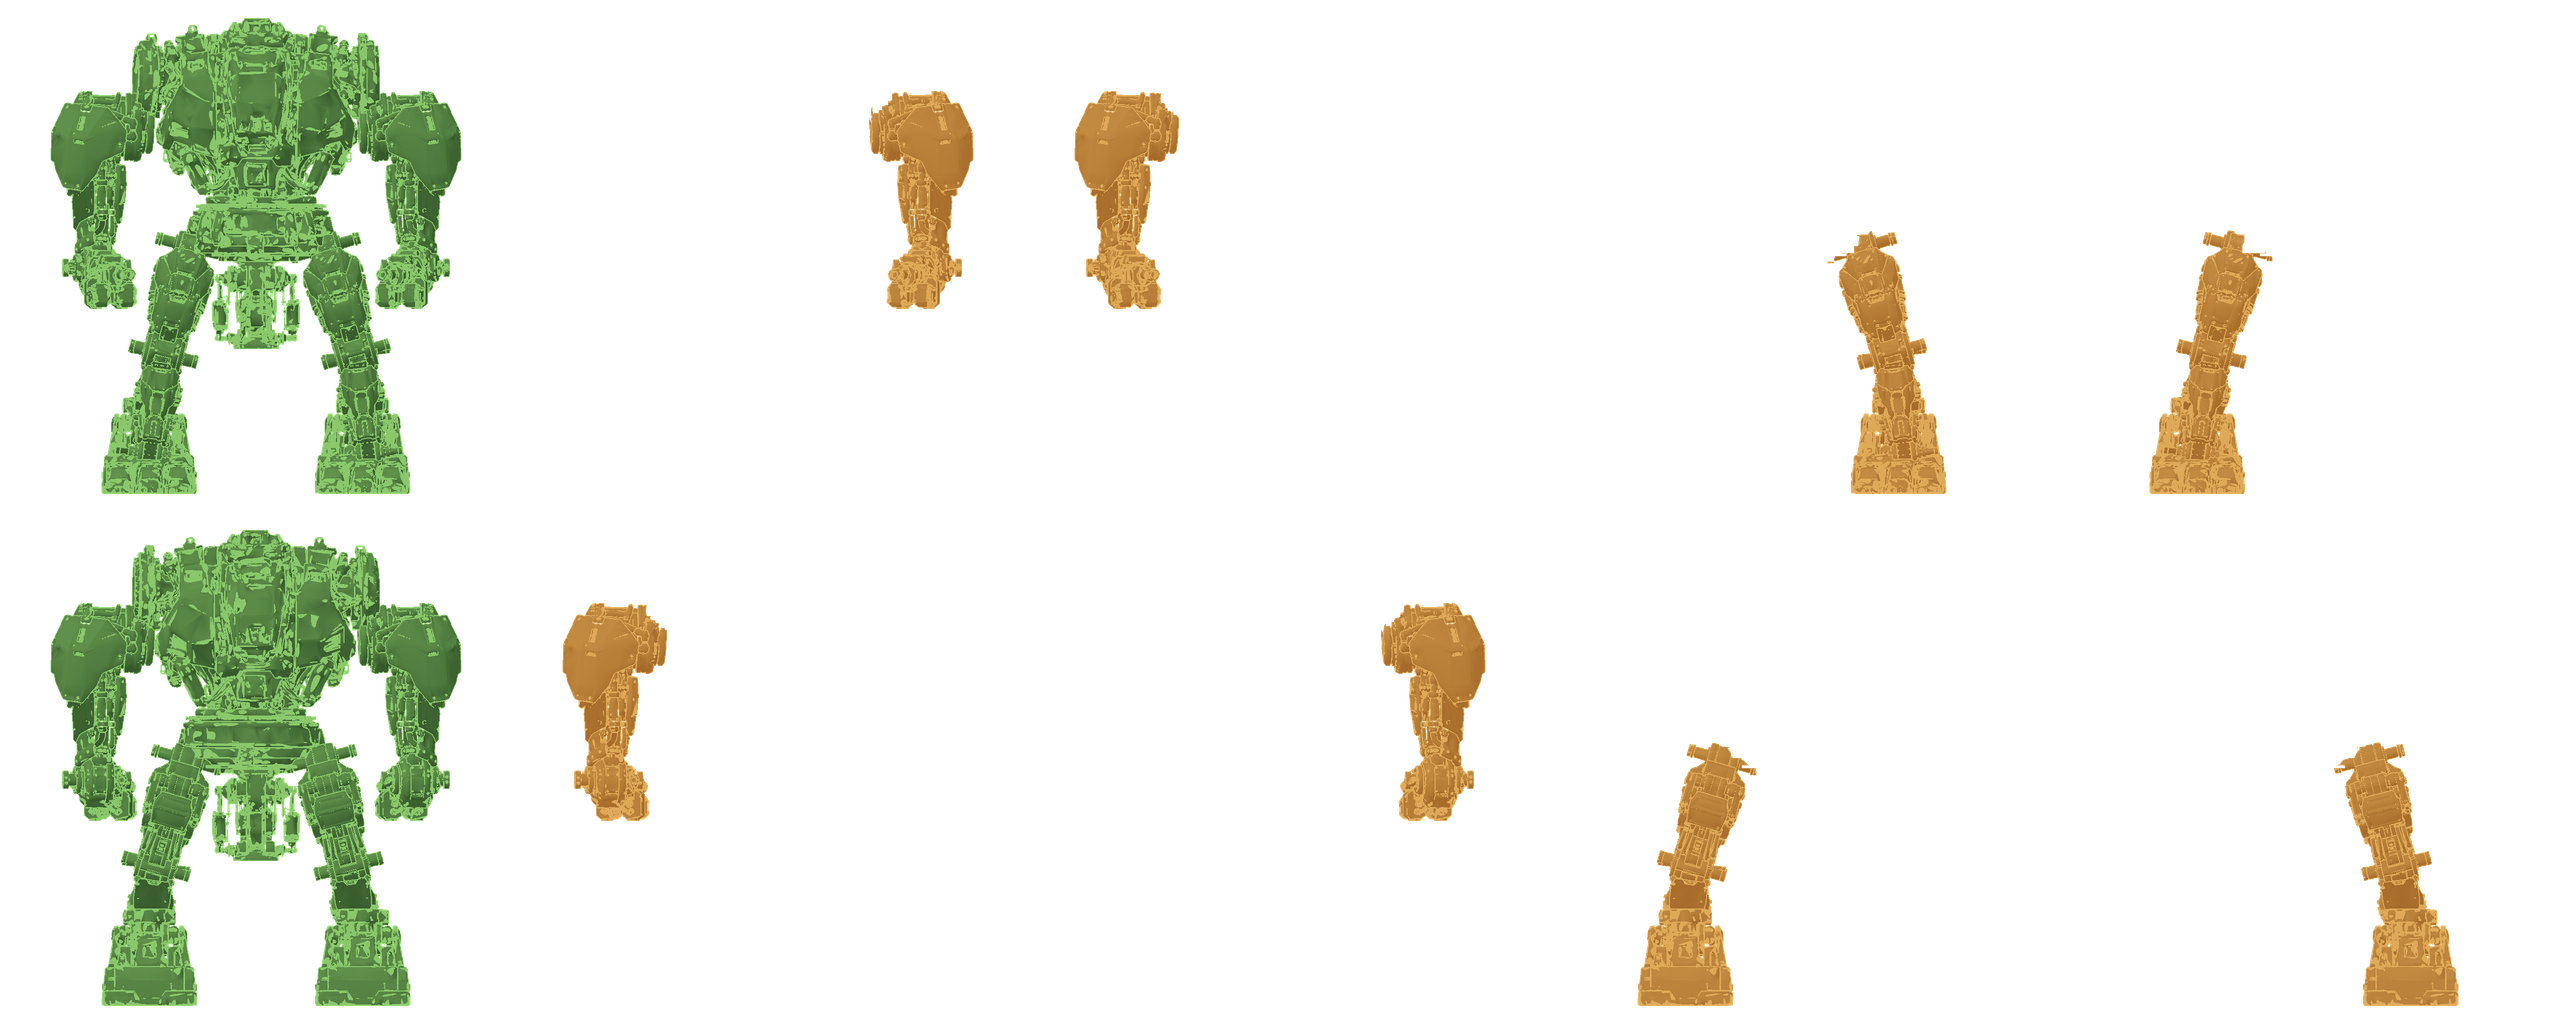
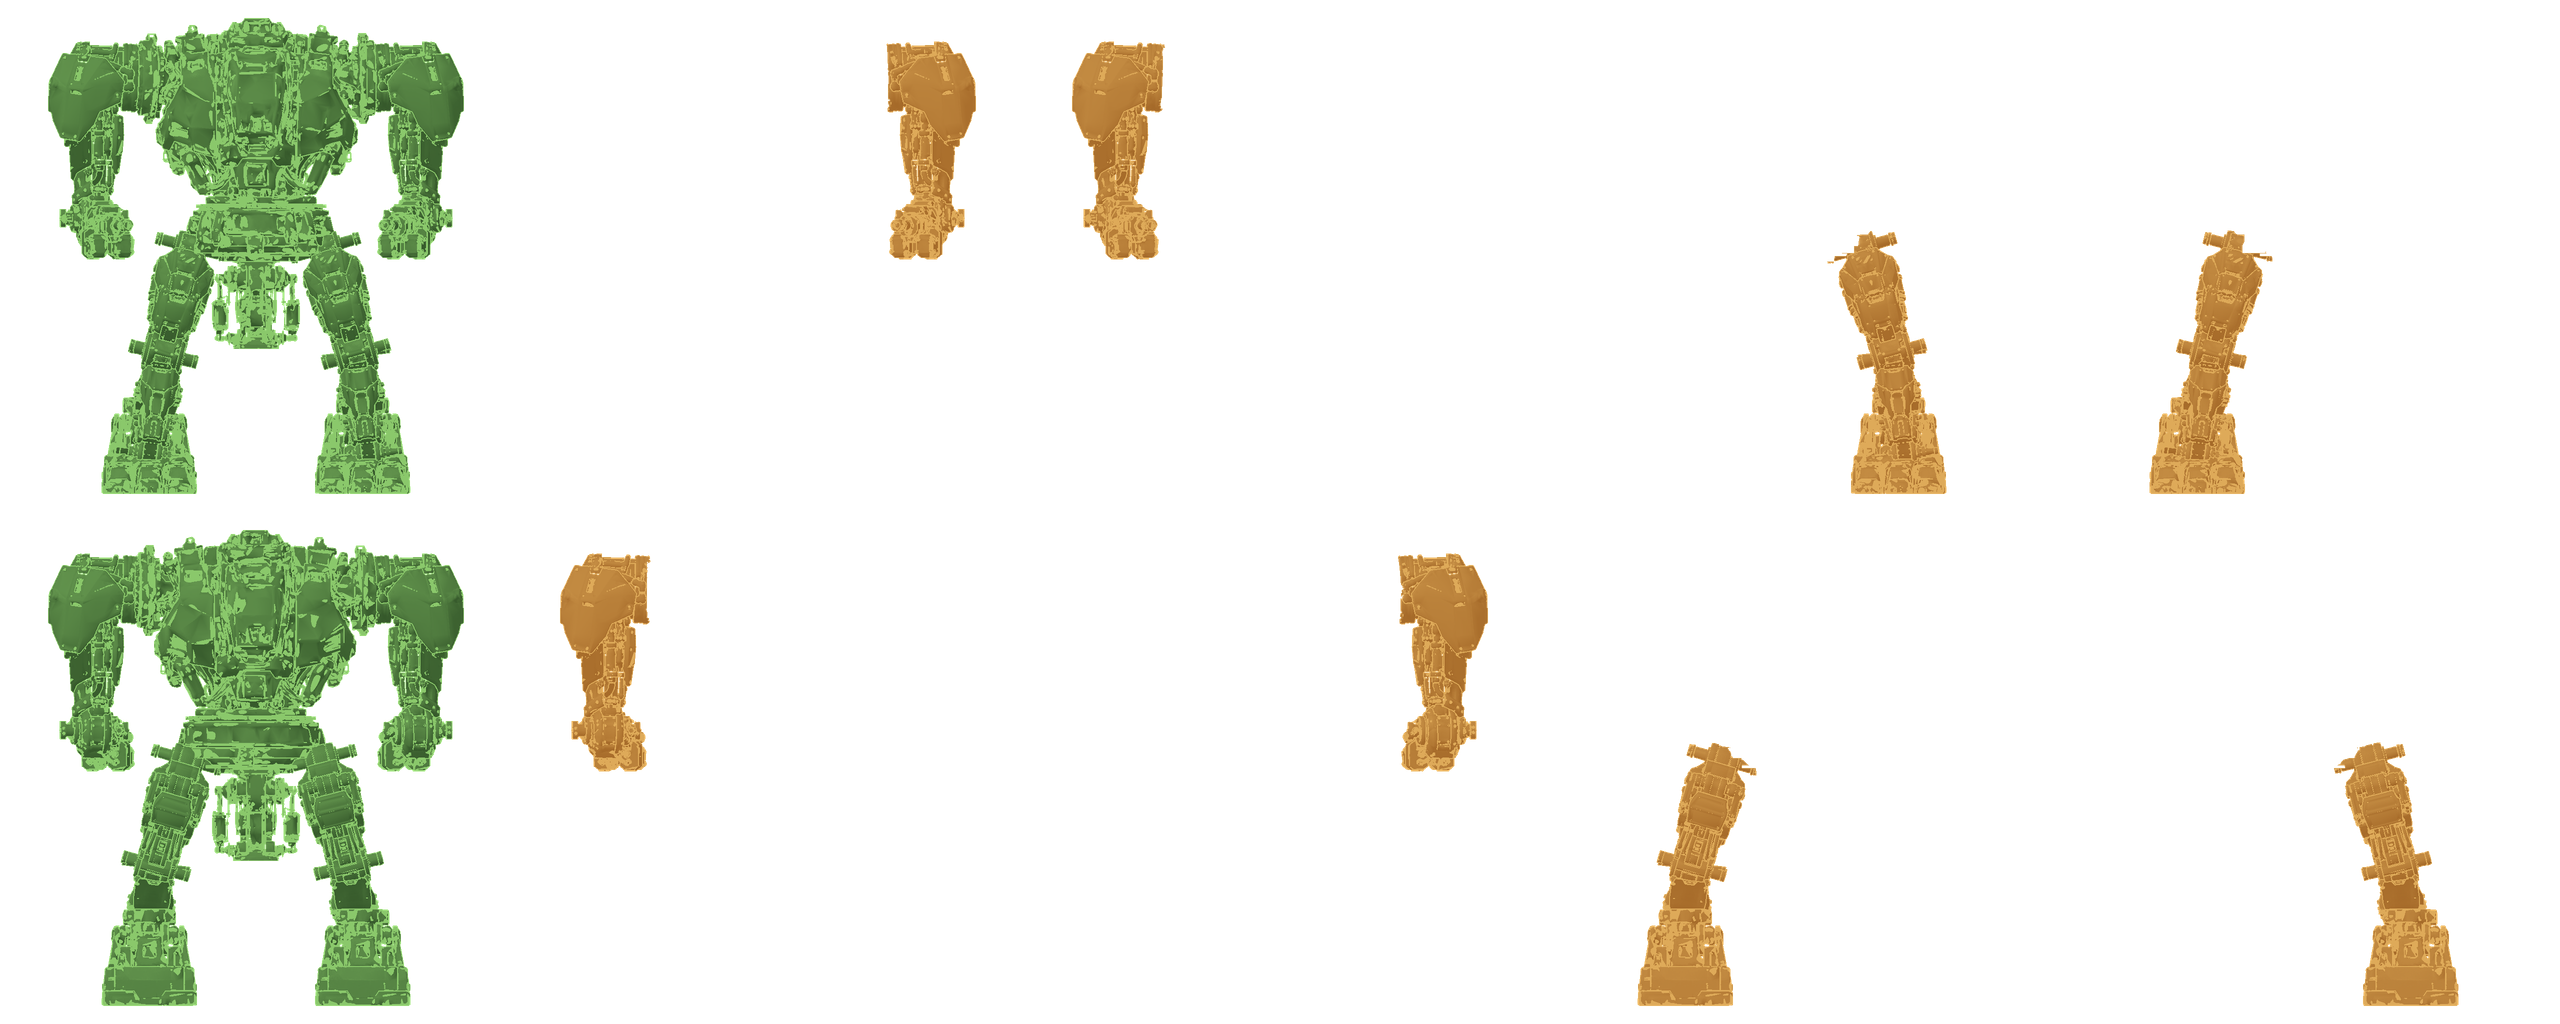
v0.69.1: Arme sitzen an den Schulterringen
Schultergelenk aus dem ersten Modell lag 11 cm unter den Schulterringen des
neuen Rumpfs; jetzt in Ringmitte (assemble-mech.mjs, JOINT.shoulderPivot).

Claude-Session: https://claude.ai/code/session_0176bWFsXyQc6wk8mSbX8sKo

diff --git a/START_HIER.md b/START_HIER.md
@@ -1,7 +1,7 @@
 # IRON VAULT – Quellprojekt, Version 59
 
-Stand: 28.10.2026. v46: Aufräumen und neue Oberfläche, v47: Röhren-Look der Displays, v48: Außenhülle, Scheinwerfer, Tag/Nacht, v49: Rundumleuchte am Rücken, v50: Schatten, Schrittgewicht, Regen, v51: Regen-/Donneraufnahmen, Gewitter, v52: Armkanonen, Laser, Schießstand, v53: gealterte Kanzel, giftgrüne Displays, v54: Schwesterschiff IV-02, v55: Füße fest am Boden, Hydraulik an den Beinen, v56: Hydraulikgeräusche, v57: Desktop-App (AppImage), v58: automatische Updates über GitHub, v59: Englisch und Sprachmenü, v59.1: Lizenzbereinigung (IV-02 optional), v59.2: Rundumleuchte sitzt fest, v59.3: keine Risse an Schultern und Ellbogen, v60: Aufklärungsdrohne mit Zielmarkierung, v60.1: eigenes Drohnenmodell und Drohnengeräusche, v61: Wüste (1,5 km), Industrieanlagen und Einsätze, v61.1: Eilmarsch, Oberkörper neigen (X/Y), Regen auf Z, v62: Performance-Audit, Diagnosemodus (F3), v63: Grafikeinstellungen, v64: Navigationsrechner (MCDU) und Marschautopilot, v65: Drohne im Begleitmodus, Marschplan, v66: Sensorkopf für die Drohne, v67: großer MCDU-Bildschirm, Zoom, Wärmebild, Nachtsicht, Laser, Vorausaufklärung, v68: neuer Mech-Rumpf, Becken, Füße, Hydraulikzylinder und Pilotensitz, v69: neue Beine und Arme mit Kanonen, Cockpit geprüft.
-Was sich geändert hat, steht in `AENDERUNGEN_v46.md` bis `AENDERUNGEN_v69.md`.
+Stand: 29.10.2026. v46: Aufräumen und neue Oberfläche, v47: Röhren-Look der Displays, v48: Außenhülle, Scheinwerfer, Tag/Nacht, v49: Rundumleuchte am Rücken, v50: Schatten, Schrittgewicht, Regen, v51: Regen-/Donneraufnahmen, Gewitter, v52: Armkanonen, Laser, Schießstand, v53: gealterte Kanzel, giftgrüne Displays, v54: Schwesterschiff IV-02, v55: Füße fest am Boden, Hydraulik an den Beinen, v56: Hydraulikgeräusche, v57: Desktop-App (AppImage), v58: automatische Updates über GitHub, v59: Englisch und Sprachmenü, v59.1: Lizenzbereinigung (IV-02 optional), v59.2: Rundumleuchte sitzt fest, v59.3: keine Risse an Schultern und Ellbogen, v60: Aufklärungsdrohne mit Zielmarkierung, v60.1: eigenes Drohnenmodell und Drohnengeräusche, v61: Wüste (1,5 km), Industrieanlagen und Einsätze, v61.1: Eilmarsch, Oberkörper neigen (X/Y), Regen auf Z, v62: Performance-Audit, Diagnosemodus (F3), v63: Grafikeinstellungen, v64: Navigationsrechner (MCDU) und Marschautopilot, v65: Drohne im Begleitmodus, Marschplan, v66: Sensorkopf für die Drohne, v67: großer MCDU-Bildschirm, Zoom, Wärmebild, Nachtsicht, Laser, Vorausaufklärung, v68: neuer Mech-Rumpf, Becken, Füße, Hydraulikzylinder und Pilotensitz, v69: neue Beine und Arme mit Kanonen, Cockpit geprüft, v69.1: Arme sitzen an den Schulterringen.
+Was sich geändert hat, steht in `AENDERUNGEN_v46.md` bis `AENDERUNGEN_v69_1.md`.
 
 Das ist eine Three.js-/React-Browsersimulation. Seit v46 ist sie ein reines
 **Vite-Projekt** ohne Server-Anteil: `npm run build` erzeugt einen statischen Ordner

diff --git a/AENDERUNGEN_v69_1.md b/AENDERUNGEN_v69_1.md
@@ -1,0 +1,10 @@
+# Änderungen in Version 69.1 – Arme sitzen an den Schultern
+
+- Die Arme hingen neben dem Rumpf in der Luft. Der Grund: Das Schultergelenk stammte noch
+  aus dem ersten Modell (Höhe 0,80) und lag 11 cm unter den runden Schulterringen des neuen
+  Rumpfs, wo dieser schmaler ist.
+- Das Schultergelenk liegt jetzt in der Mitte der Schulterringe (Höhe 0,905). Die
+  Gelenktrommel des Oberarms steckt im Ring, Schulterplatte und Rumpfoberkante schließen
+  bündig ab. Die Kanonen sitzen dadurch etwas höher.
+- Der Mech bleibt im Kollisionskreis von 4,65 m (gemessen 4,47 m).
+- Strukturanzeige (STRUCTURE / IV-04) neu aus dem Modell erzeugt.
